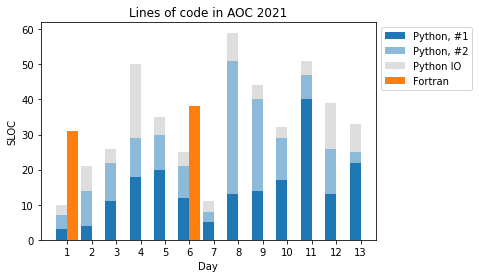
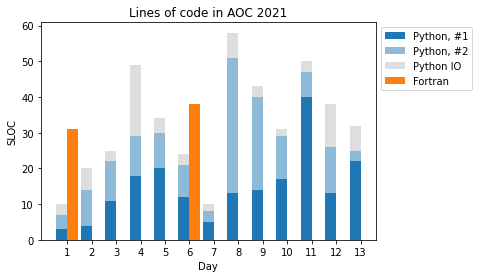
Fix line couter

diff --git a/count_loc.py b/count_loc.py
@@ -27,6 +27,8 @@ def loc_py(file_path):
                 counting = False
             elif l[0:3] == '"""':
                 counting = True
+                continue
+            
             if counting:
                 if len(l) > 0 and l[0] != "#":
                     loc += 1
